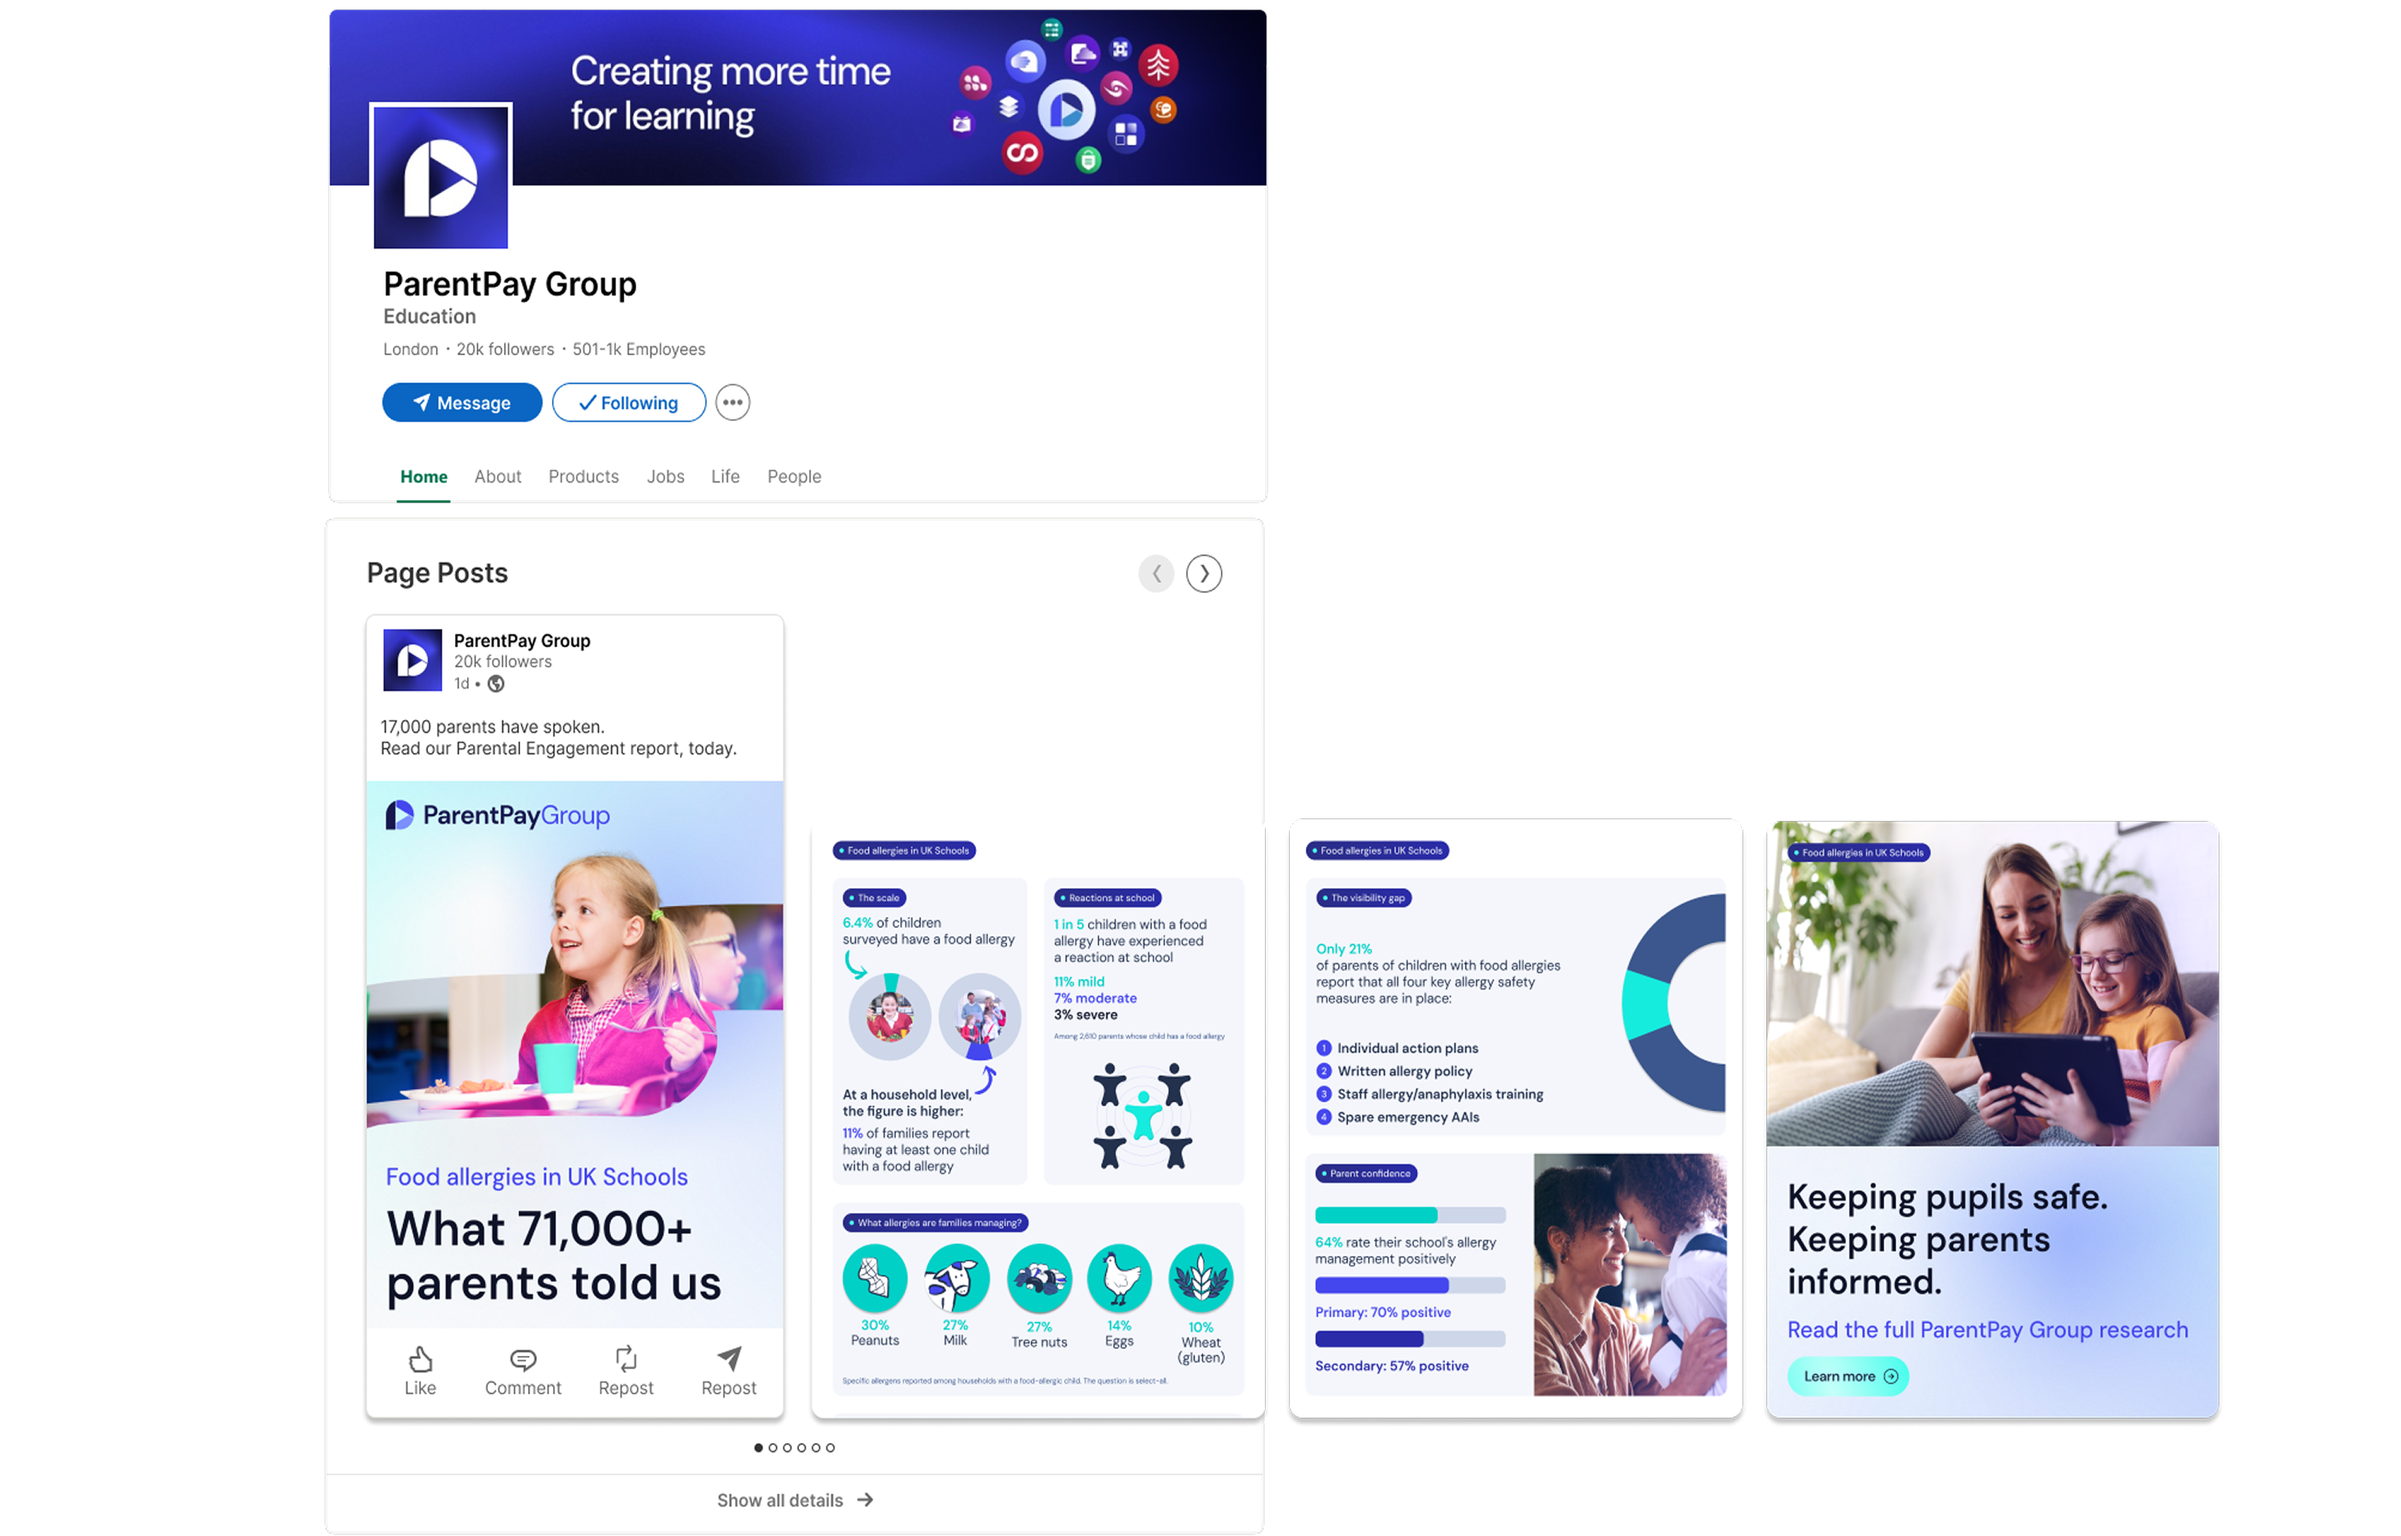
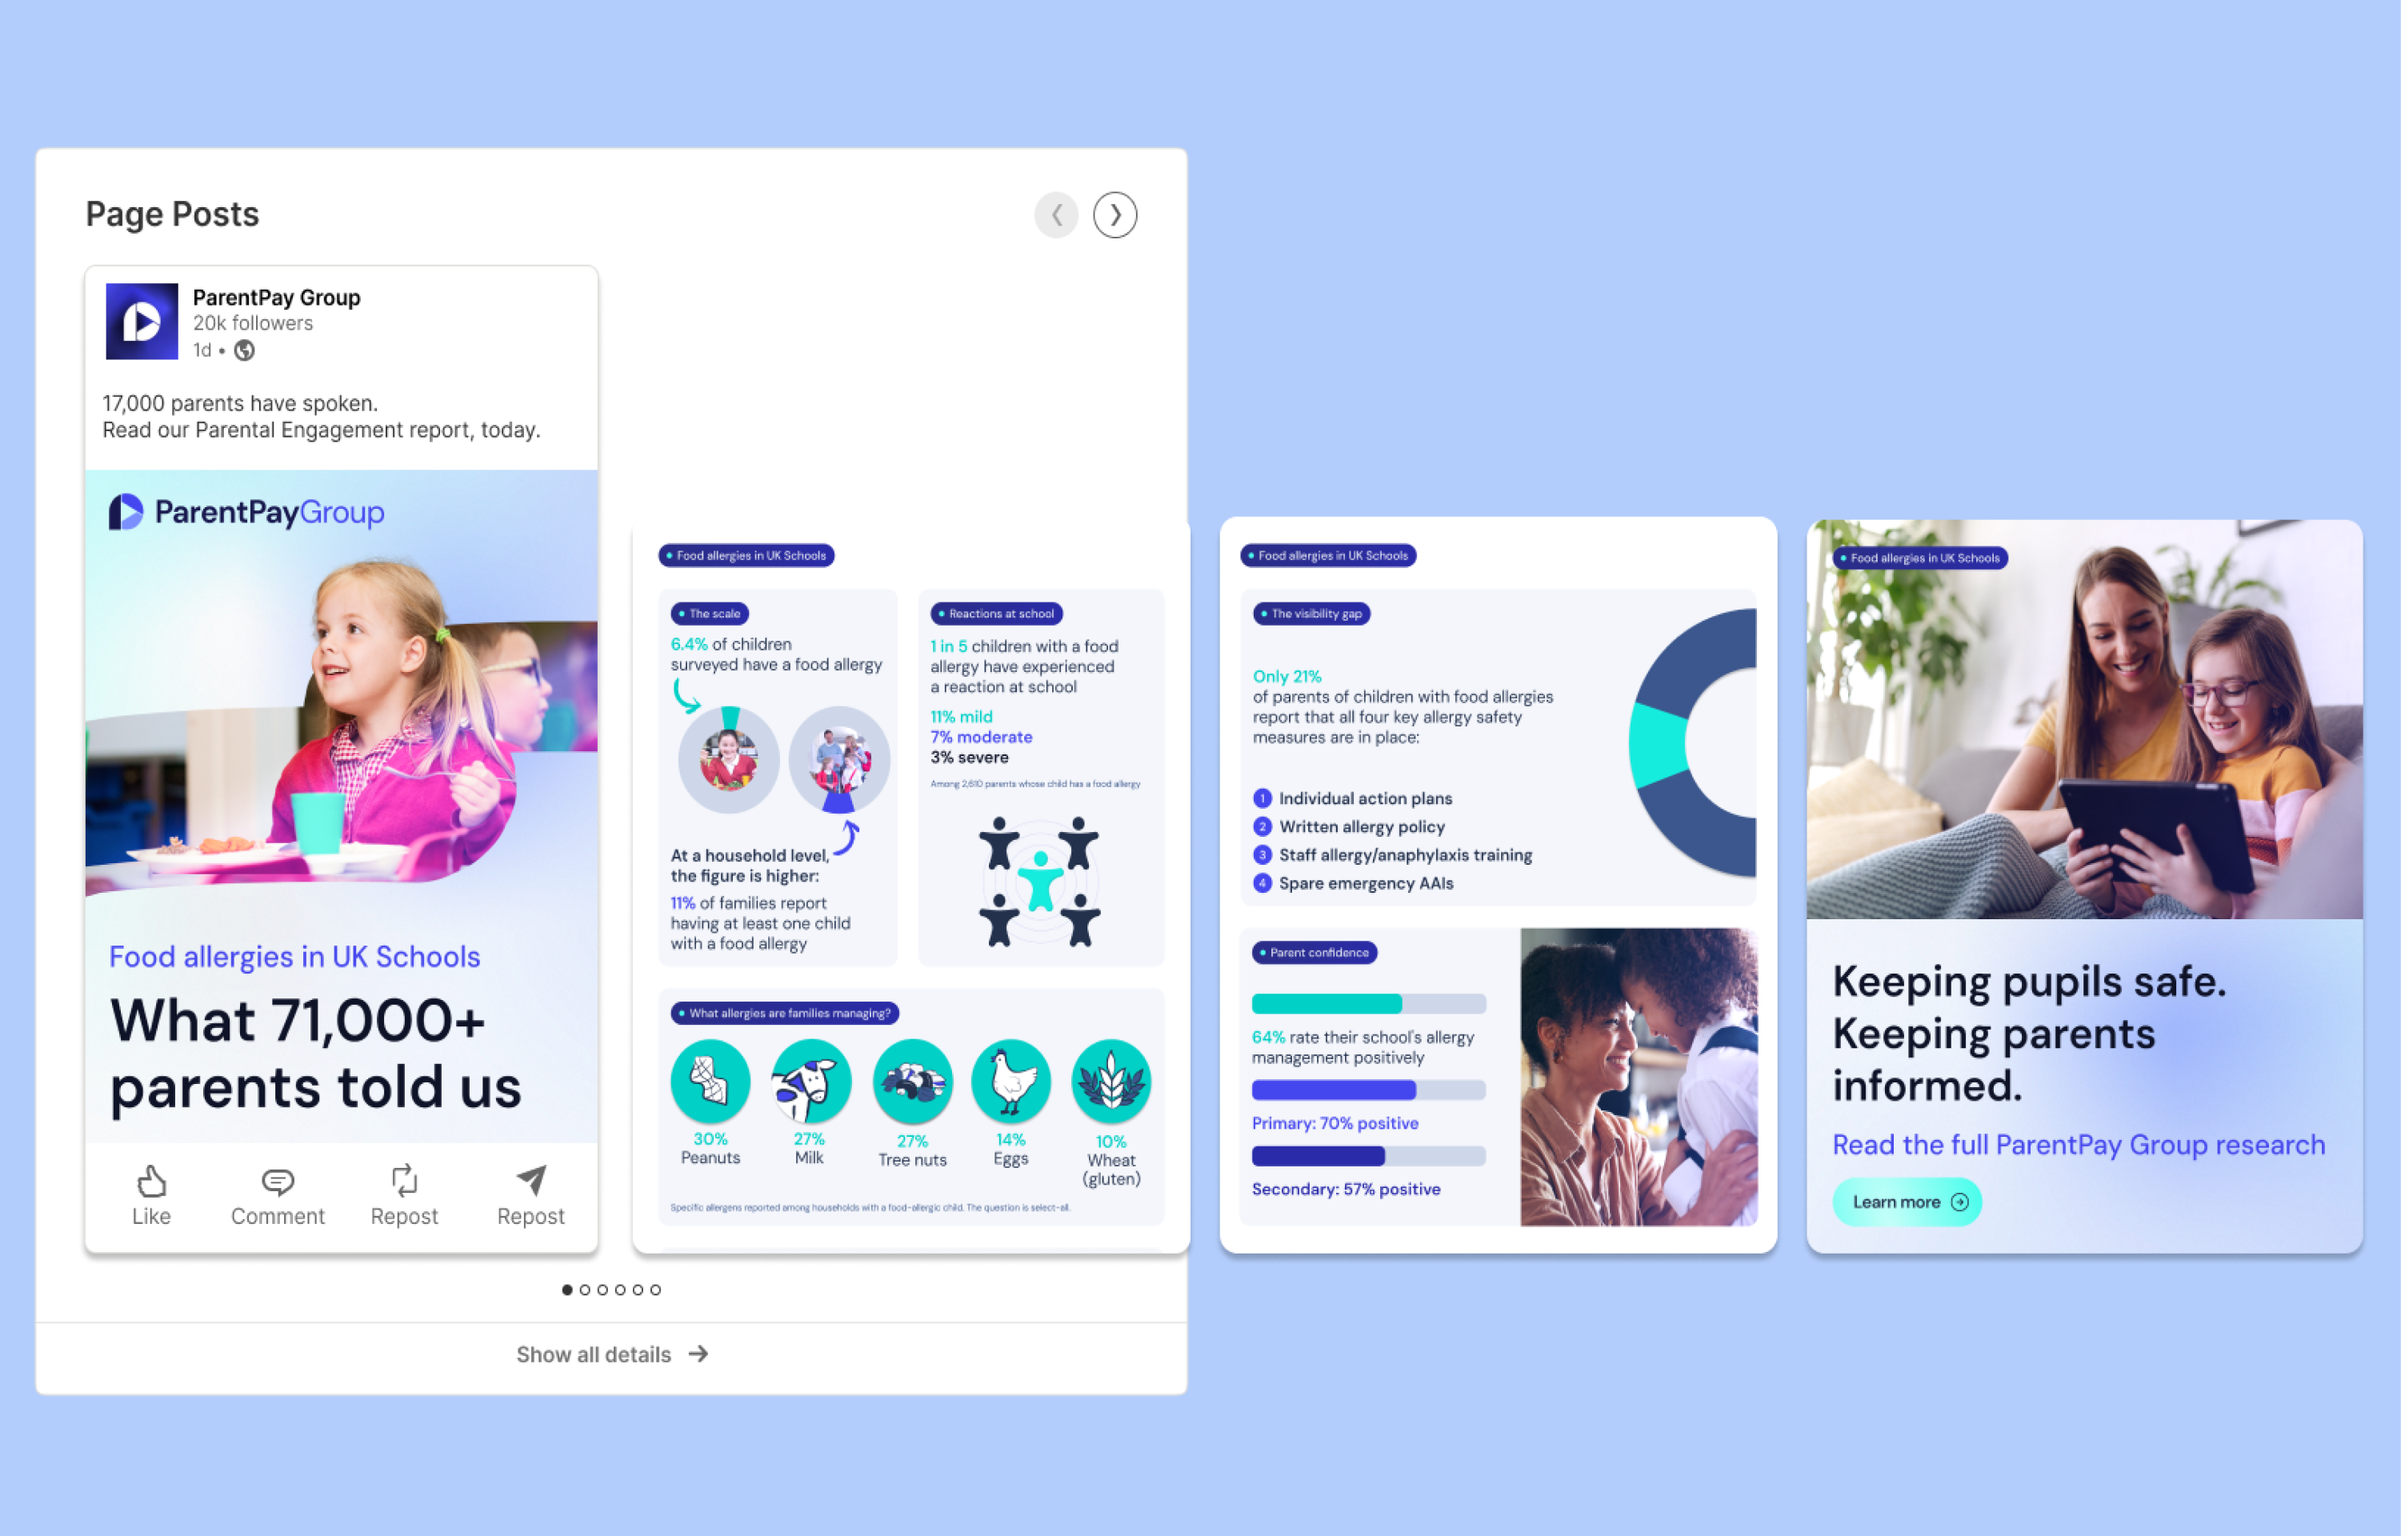
November 2026 update

diff --git a/css/styles.css b/css/styles.css
@@ -328,6 +328,33 @@ align-content: center;
 
 /* All Project Pages */
 
+.next-project {
+    padding: 4rem 4rem;
+    text-align: right;
+}
+
+.next-project-link {
+    display: block;
+    text-decoration: none;
+    color: inherit;
+}
+
+.next-project-label {
+    display: block;
+    font-size: 0.9rem;
+    opacity: 0.6;
+}
+
+.next-project-name {
+    display: block;
+    font-size: 1.5rem;
+    margin-top: 0.25rem;
+}
+
+.next-project-link:hover .next-project-name {
+    text-decoration: none;
+}
+
 .full-width {
 
   display: grid;
@@ -860,7 +887,7 @@ ul {
 }
 
 .next-project {
-    padding: 4rem 0;
+    padding: 4rem 4rem;
     text-align: center;
 }
 

diff --git a/parentPayGroupDigital.html b/parentPayGroupDigital.html
@@ -62,25 +62,26 @@
     </header>
 
     <section class="content">
-        <div class="left-container">
-                            
+        <div class="left-container">                   
         </div>
+
         <div class="content02">
             
         </div>
+
+                
         
         <div>
         <div class="video-container"></div>
-        <div class="next-project"></div> 
 
         </div>
 
     </section>
 
     <section class="full-width02"> 
-
-
+        <div class="next-project"></div> 
     </section>
+
 
     <footer class="footer">
         <div class="nav-links">

diff --git a/birthstone.html b/birthstone.html
@@ -69,6 +69,7 @@
     </section>
 
     <section class="full-width02"> 
+                <div class="next-project"></div> 
     </section>
 
     <footer class="footer">

diff --git a/calibreAudio.html b/calibreAudio.html
@@ -67,6 +67,7 @@
     </section>
 
     <section class="full-width02"> 
+                <div class="next-project"></div> 
     </section>
 
     <footer class="footer">

diff --git a/vaniday.html b/vaniday.html
@@ -67,6 +67,7 @@
     </section>
 
     <section class="full-width02">
+                <div class="next-project"></div> 
     </section>
 
     <footer class="footer">

diff --git a/robPezetPottery.html b/robPezetPottery.html
@@ -69,6 +69,7 @@
     </section>
 
     <section class="full-width02"> 
+                <div class="next-project"></div> 
     </section>
     
 

diff --git a/savillsPrivateOffice.html b/savillsPrivateOffice.html
@@ -69,6 +69,7 @@
     </section>
 
     <section class="full-width02"> 
+                <div class="next-project"></div> 
     </section>
     
 
